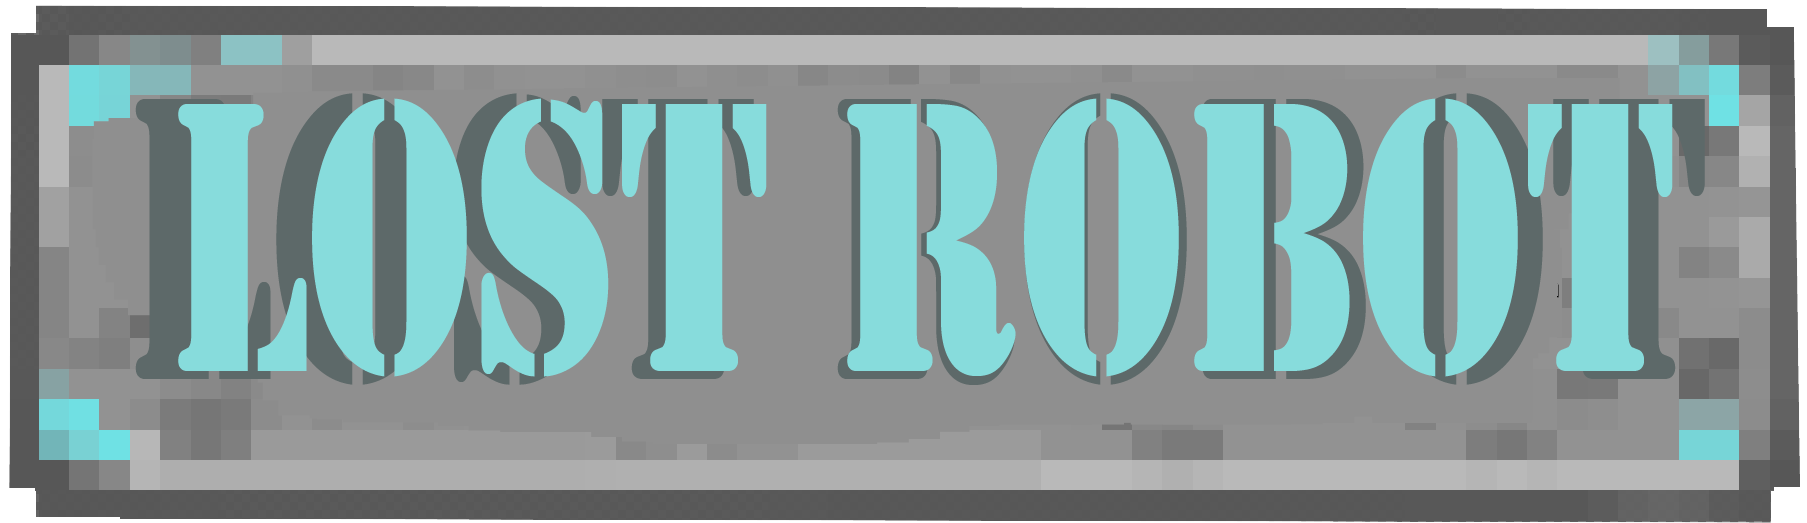
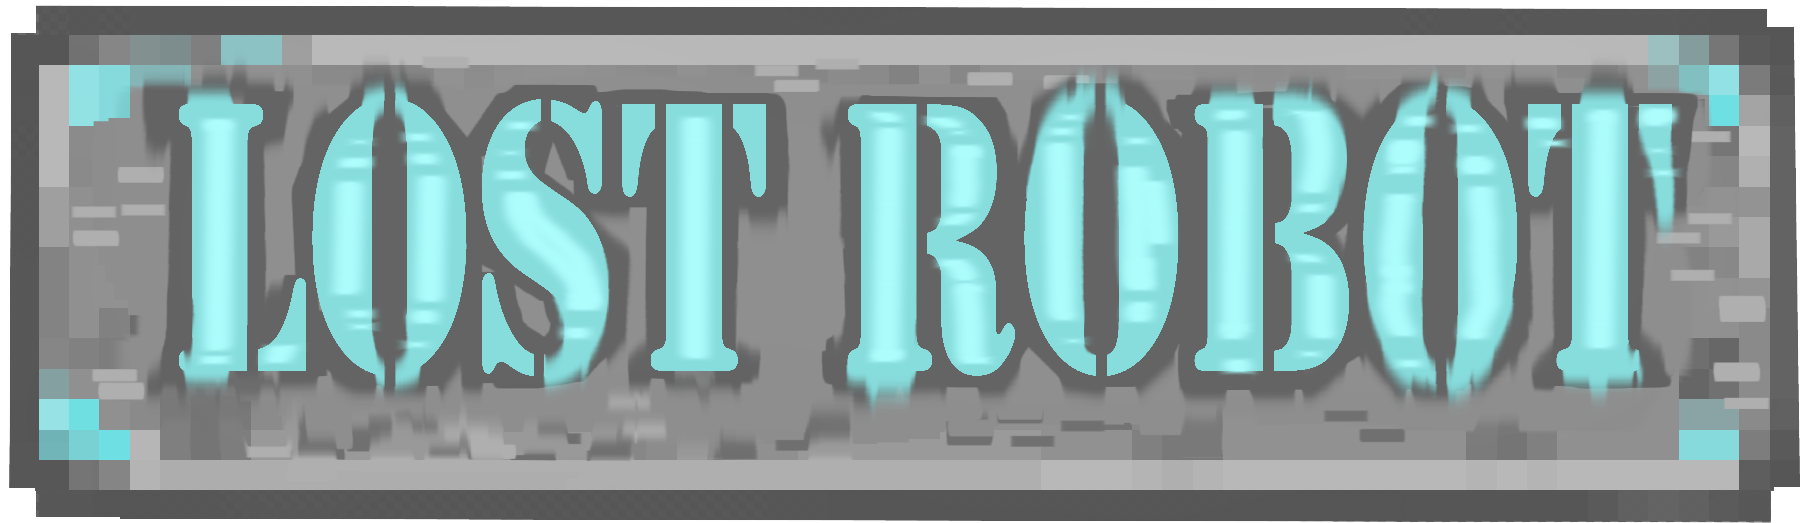
Button/art text asset update for menu screen. Change m1 mouse png to 'mouse.png' to fix glitch

diff --git a/src/scenes/Menu.js b/src/scenes/Menu.js
@@ -4,6 +4,9 @@ class Menu extends Phaser.Scene {
     }
 
     preload(){
+        this.load.image('the', './assets/the.png');
+        this.load.image('credit1', './assets/credit1.png');
+        this.load.image('credit2', './assets/credit2.png');
         this.load.image('rb1', './assets/rb1.png');
         this.load.image('rb2', './assets/rb2.png');
         this.load.image('bt1', './assets/bt1.png');
@@ -44,21 +47,35 @@ class Menu extends Phaser.Scene {
 
         gamePointer = this.input.activePointer;
 
+        this.the = this.add.sprite(game.config.width/2+300, 85, 'the').setOrigin(0.5).setScale(0.19);
+
         this.title = this.add.sprite(game.config.width/2+300, 190, 'titletext1').setOrigin(0.5).setScale(0.0);
-        this.title.setInteractive();
+        this.title2 = this.add.sprite(game.config.width/2+300, 190, 'titletext2').setOrigin(0.5).setScale(0.3).setAlpha(0.0);
         this.blackscreen = this.add.sprite(0, 0, 'black').setOrigin(0,0)
 
         this.nextButton = this.add.sprite(game.config.width/2+300, 490, 'bt1').setOrigin(0.5).setScale(0.0);
+        this.creditButton = this.add.sprite(game.config.width/2+300, 290, 'credit1').setOrigin(0.5).setScale(0.0);
+        this.creditButton.setInteractive();
         this.nextButton.setInteractive();
 
 
         //set funcitons to run for hovering over/clicking button
+        this.creditButton.on('pointerover', () => {
+            this.creditButton.setTexture('credit2')
+        });
+
+        this.creditButton.on('pointerout', () => {
+            this.creditButton.setTexture('credit1')
+        });
+
         this.nextButton.on('pointerover', () => {
             this.nextButton.setTexture('bt2')
         });
         this.nextButton.on('pointerout', () => {
             this.nextButton.setTexture('bt1')
         });
+        this.creditButton.on('pointerdown', () => {
+            this.scene.start('creditScene')});
         
         this.nextButton.on('pointerdown', () => {
             this.sound.play('hit');
@@ -82,12 +99,12 @@ class Menu extends Phaser.Scene {
         let startTween = this.tweens.add({
             targets: this.nextButton,
             alpha: { from: 0, to: 1 },
-            scale: { from: 0.1, to: 0.3 },
+            scale: { from: 0.1, to: 0.2 },
             ease: 'Sine.easeInOut',
-            duration: 2000,
+            duration: 1000,
             repeat: 0,
             hold: -1,
-            delay: 1000,
+            delay: 1600,
             onCompleteScope: this
         });
 
@@ -100,6 +117,29 @@ class Menu extends Phaser.Scene {
             repeat: 0,
             hold: -1,
             delay: 100,
+            onCompleteScope: this
+        });
+
+        let title2Tween = this.tweens.add({
+            targets: this.title2,
+            alpha: { from: 0, to: 1 },
+            ease: 'Sine.easeInOut',
+            duration: 1000,
+            yoyo: true,
+            repeat: -1,
+            delay: 2200,
+            onCompleteScope: this
+        });
+
+        let creditTween = this.tweens.add({
+            targets: this.creditButton,
+            alpha: { from: 0, to: 1 },
+            scale: { from: 0.0, to: 0.15 },
+            ease: 'Sine.easeInOut',
+            duration: 1000,
+            repeat: 0,
+            hold: -1,
+            delay: 2500,
             onCompleteScope: this
         });
 
